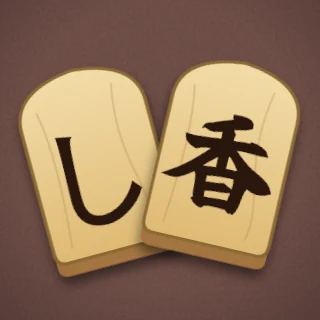
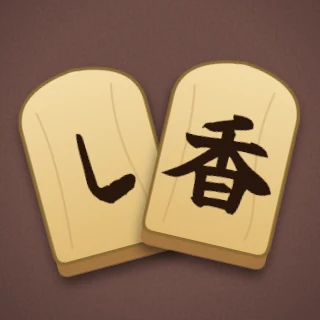
追加ゲームの分類を見直し(チンチロリン→ボード、インカの黄金→カード)、ごいたの「し」を筆文字に
Claude-Session: https://claude.ai/code/session_01EAdv13ZQvpHf9yiJUrSW9c

Changed region(s): [[0.1562, 0.4062, 0.4375, 0.7188]]

diff --git a/web/pc-firebase/sw.js b/web/pc-firebase/sw.js
@@ -1,5 +1,5 @@
 // PC 版(Web): ネットにつながる時はいつもネットから新しいファイルを取り、切れている時だけ保存したものを使う(tools/sync_pc.py が作る)
-const CACHE = "asobipcfb-20261123-nine-impl-3";
+const CACHE = "asobipcfb-20261123-category-goita-4";
 const FILES = [
 "./css/twelve.css",
 "./css/falling.css",

diff --git a/tools/subset_fonts.py b/tools/subset_fonts.py
@@ -22,4 +22,4 @@ def run(font, out, text):
     print(out, os.path.getsize(os.path.join("web/fonts", out)), "bytes", len(text), "chars")
 run("zen_maru_gothic_medium.ttf", "ZenMaruGothic-Medium.woff2", chars)
 run("zen_maru_gothic_bold.ttf", "ZenMaruGothic-Bold.woff2", chars)
-run("koma_yuji_boku.ttf", "YujiBoku-Koma.woff2", set("王玉将飛車角行金銀桂馬香歩兵竜龍成と全杏圭一二三四五六七八九萬東南西北發中"))
+run("koma_yuji_boku.ttf", "YujiBoku-Koma.woff2", set("王玉将飛車角行金銀桂馬香歩兵竜龍成と全杏圭一二三四五六七八九萬東南西北發中し"))  # し はごいたの駒

diff --git a/README4AI_Claude_Codex_Antigravity.md b/README4AI_Claude_Codex_Antigravity.md
@@ -56,6 +56,11 @@
 
 ## 5. 変更の記録(新しいものを上に)
 
+### 2026-11-23 / Claude / 追加ゲームの分類の見直し・ごいたの「し」の字体
+- 分類(`core/games/<id>.mjs` の `category`)を、遊ぶ道具で見直した。チンチロリン: サイコロだけ → CARD から BOARD(ライアーズダイス・ヨットと同じ)。インカの黄金: 宝と危険のカードの山をめくる → BOARD から CARD。ほかの追加ゲーム(コヨーテ・スカル・6ニムトはカード、ブロックス・コリドール・バトルシップ・ライアーズダイス・ごいた・ラミィキューブなどはボード)はそのまま。
+- ごいたのアイコンの「し」だけ別の字体だった: `fonts/YujiBoku-Koma.woff2` は駒の字だけの縮小版で「し」が無かった。Google Fonts の Yuji Boku(OFL)から、今の 37 字+「し」で作り直した(`tools/subset_fonts.py` にも「し」を足した)。ごいたのアイコン画像 `assets/game-icons/goita.webp` を作り直し。対局中のごいたの駒の「し」も筆文字になる。`sw.js` のキャッシュ名を更新。
+- 確かめたこと: 字体に「し」が入った(fonttools で確認)、アイコンの「し」が「香」と同じ筆文字、メニューで2つの分類が変わった。
+
 ### 2026-11-23 / Muse / 検証環境の復旧、最終目視 AA1〜AA6 の完了、バトルシップ／チンチロリンの表示不具合の修正
 - ランタイム再起動（02:09頃）により検証環境が復旧した: Chromium（headless shell）がページ作成できるようになり、ファイル書き込みの EPERM も解消した。なお /tmp の二重マウントとゲスト全体の seccomp フィルタは残ったままでもブラウザが動作したため、それらは直接の原因ではなかった可能性が高い（再発時はまずランタイム再起動を試すのが有効、という知見）。
 - 復旧を受けて最終目視 AA1〜AA6 をローカル実ブラウザ（Playwright＋headless shell、PC 1280×900／スマホ 390×844）で実施し、全て OK になった（`docs/CHECKLIST_PENDING.md` の AA 節に OK を付けた）。コリドールは壁のゴースト→向き変更→配置→CPU の応手、バトルシップは配置→照準→発射→被弾表示と秘匿、チンチロリンは振り・振り直し・精算（チップ増減とラウンド遷移、精算パネルの出現）まで実地で確認した。
